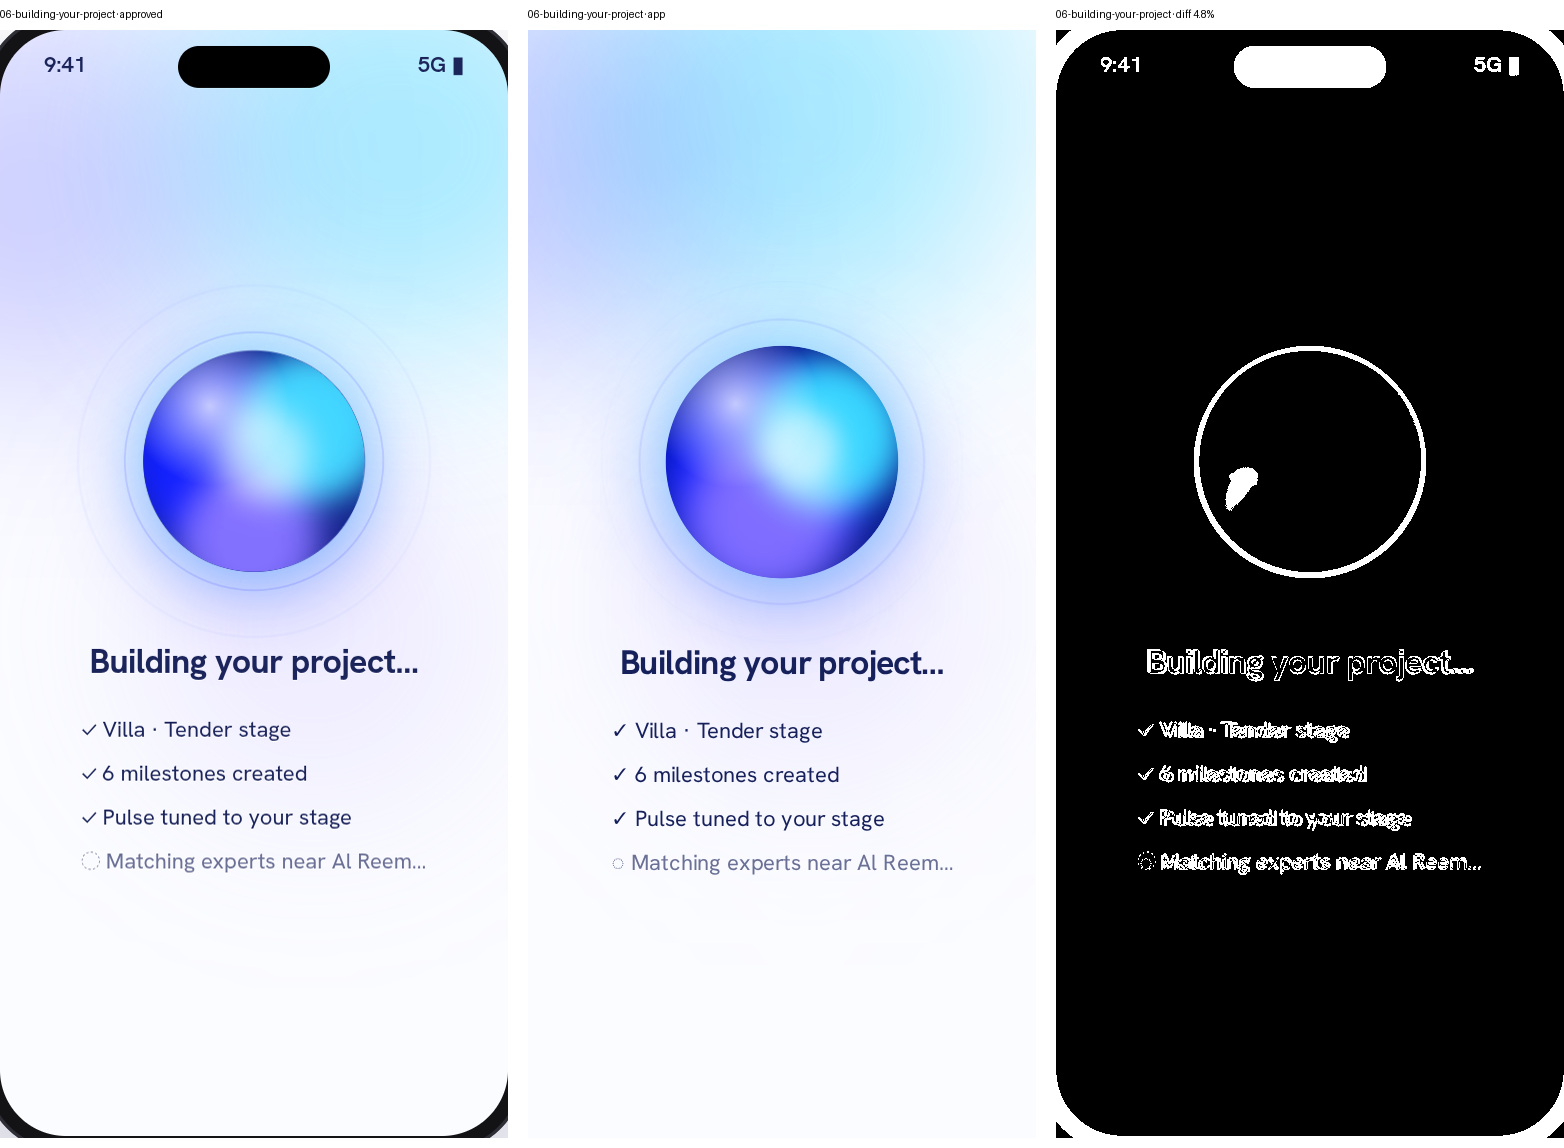
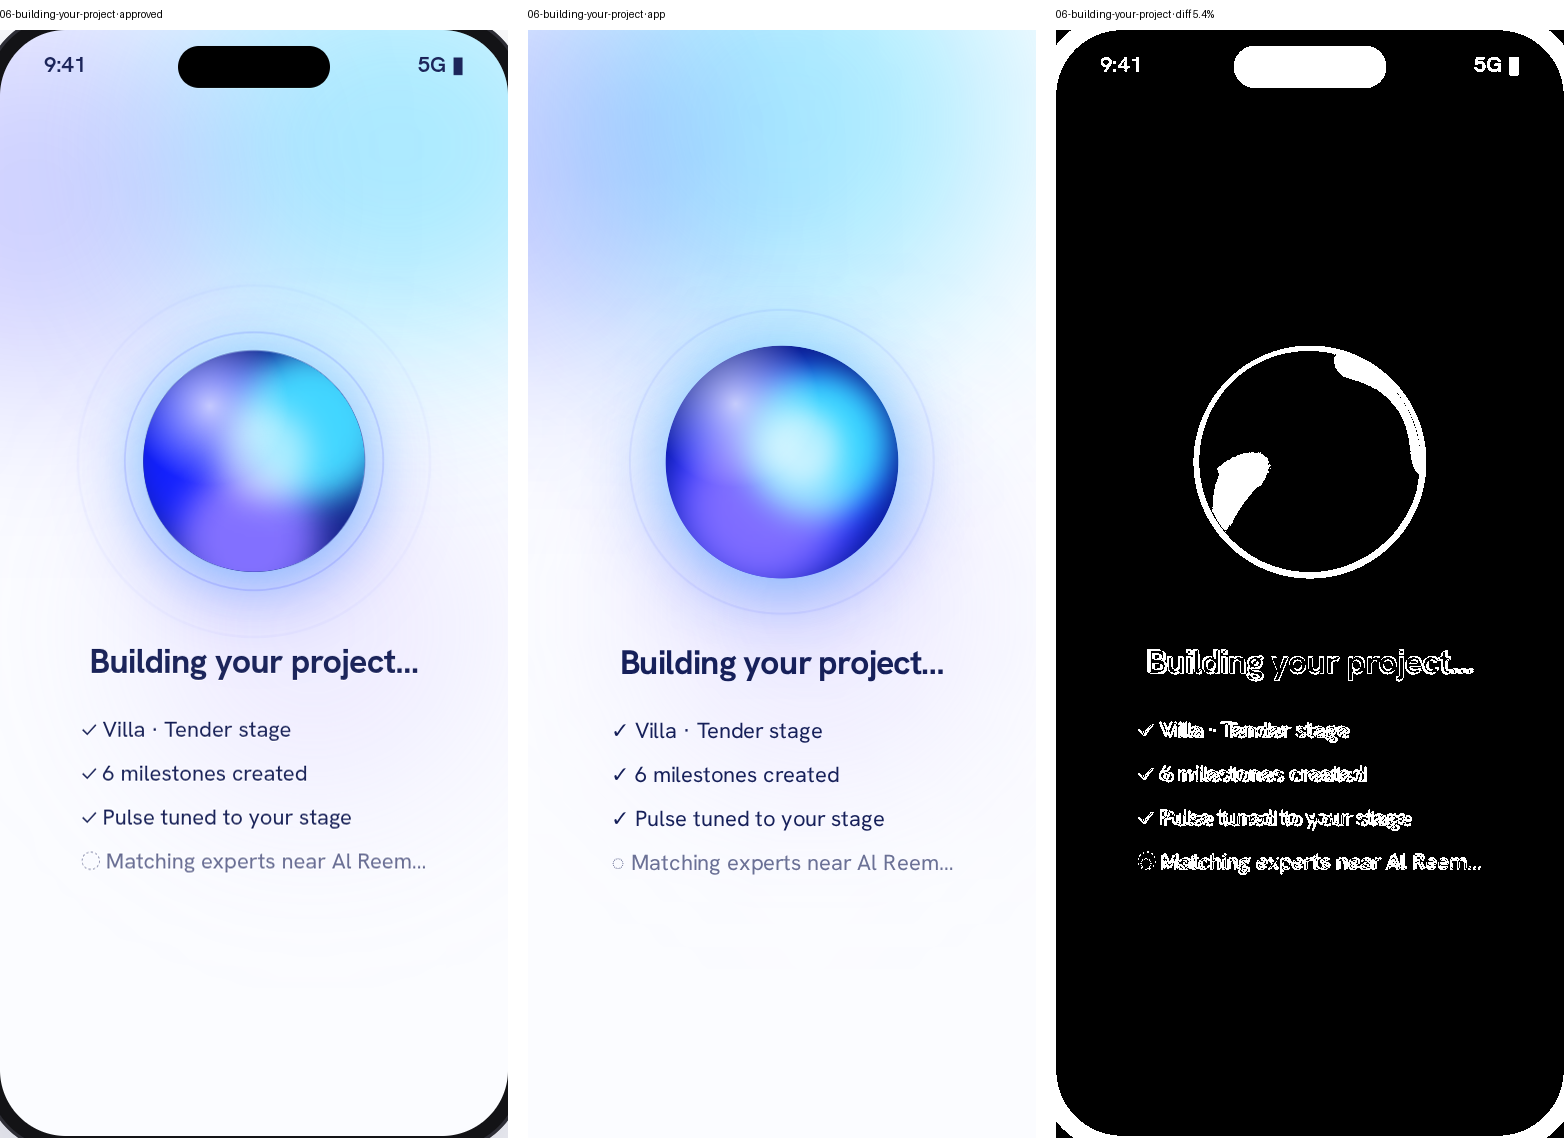
fix(mobile): Orb default fluid blob, variant=sphere for welcome/creating

diff --git a/mobile/src/fx/Orb.tsx b/mobile/src/fx/Orb.tsx
@@ -1,13 +1,58 @@
-import { Canvas, Circle, Group, RadialGradient, Blur, Skia, vec, useClock } from '@shopify/react-native-skia';
+import { Canvas, Circle, Group, Path, RadialGradient, SweepGradient, Blur, Skia, vec, useClock } from '@shopify/react-native-skia';
 import { useDerivedValue, SharedValue } from 'react-native-reanimated';
 import { View, StyleProp, ViewStyle, AccessibilityInfo } from 'react-native';
 import { useEffect, useState } from 'react';
+import { blobPoints } from './geometry';
+import { ORB } from '@/theme/tokens';
 import { s } from '@/theme/scale';
 
 function useReduceMotion() {
   const [r, setR] = useState(false);
   useEffect(() => { AccessibilityInfo.isReduceMotionEnabled().then(setR); }, []);
   return r;
+}
+
+export type OrbProps = { size: number; soft?: boolean; calm?: boolean; ring?: boolean; style?: StyleProp<ViewStyle>; variant?: 'blob' | 'sphere' };
+
+function OrbBlob({ size, soft, calm, ring, style }: OrbProps) {
+  const reduce = useReduceMotion();
+  const clock = useClock();
+  const D = s(size); const pad = D * 0.45; const W = D + pad * 2; const c = W / 2; const r = D / 2;
+  const speed = reduce ? 0 : calm ? 0.28 : 0.55;
+  const path = useDerivedValue(() => {
+    const t = (clock.value / 1000) * speed;
+    const pts = blobPoints(t, r * (ring ? 0.8 : 1), c, c, 48);
+    const p = Skia.Path.Make();
+    const mid = (i: number) => { const a = pts[i]; const b = pts[(i + 1) % pts.length]; return [(a[0] + b[0]) / 2, (a[1] + b[1]) / 2]; };
+    const m0 = mid(pts.length - 1); p.moveTo(m0[0], m0[1]);
+    for (let i = 0; i < pts.length; i++) { const m = mid(i); p.quadTo(pts[i][0], pts[i][1], m[0], m[1]); }
+    p.close();
+    return p;
+  });
+  const rot = useDerivedValue(() => [{ rotate: ((clock.value / 1000) * speed * 1.05) % (Math.PI * 2) }]);
+  const blur = D * (soft ? 0.11 : 0.05);
+  return (
+    <View style={[{ width: D, height: D, alignItems: 'center', justifyContent: 'center' }, style]} pointerEvents="none">
+      <Canvas style={{ position: 'absolute', width: W, height: W, left: -pad, top: -pad, opacity: calm ? 0.8 : 1 }}>
+        <Circle cx={c} cy={c} r={r * 1.35}>
+          <RadialGradient c={vec(c, c)} r={r * 1.35} colors={['rgba(49,209,255,0.35)', 'rgba(0,0,254,0.12)', 'rgba(0,0,254,0)']} positions={[0, 0.45, 1]} />
+          <Blur blur={D * 0.08} />
+        </Circle>
+        <Group origin={vec(c, c)} transform={rot}>
+          <Path path={path} style={ring ? 'stroke' : 'fill'} strokeWidth={r * 0.55}>
+            <SweepGradient c={vec(c, c)} colors={ORB} />
+            <Blur blur={blur} />
+          </Path>
+        </Group>
+        {!ring && (
+          <Circle cx={c} cy={c} r={r * 0.56}>
+            <RadialGradient c={vec(c, c)} r={r * 0.56} colors={['rgba(255,255,255,0.95)', 'rgba(255,255,255,0)']} />
+            <Blur blur={3} />
+          </Circle>
+        )}
+      </Canvas>
+    </View>
+  );
 }
 
 /** Mockup `.orb`: dark core clipped to a circle, four blurred screen-blended blobs drifting on 6/7/5/4s loops, a top-left shine,
@@ -34,7 +79,7 @@ function Blob({ b, clock, D, pad, speed, k }: { b: (typeof BLOBS)[number]; clock
   );
 }
 
-export function Orb({ size, soft, calm, style }: { size: number; soft?: boolean; calm?: boolean; ring?: boolean; style?: StyleProp<ViewStyle> }) {
+function OrbSphere({ size, soft, calm, style }: OrbProps) {
   const reduce = useReduceMotion();
   const clock = useClock();
   const D = s(size); const k = D / size; const pad = D * 0.7; const W = D + pad * 2; const c = W / 2; const r = D / 2;
@@ -59,6 +104,9 @@ export function Orb({ size, soft, calm, style }: { size: number; soft?: boolean;
     </View>
   );
 }
+
+/** `blob` (default): the fluid iridescent morphing blob (motion.html .blob). `sphere`: the glossy sphere (common.html .orb). */
+export function Orb({ variant = 'blob', ...p }: OrbProps) { return variant === 'sphere' ? <OrbSphere {...p} /> : <OrbBlob {...p} />; }
 
 /** Two expanding rings around an orb (mockup .halo): 4s loop, the second offset by 2s. */
 export function Halo({ size }: { size: number }) {

diff --git a/mobile/src/app/onboarding/welcome.tsx b/mobile/src/app/onboarding/welcome.tsx
@@ -26,7 +26,7 @@ export default function Welcome() {
         <Pressable onPress={() => router.push('/onboarding/signup?mode=signin')}><T size={11} w={600} c={C.mute}>Sign in</T></Pressable>
       </View>
       <View style={{ alignItems: 'center', marginTop: s(30), height: s(118) }}>
-        <View><Halo size={118} /><Orb size={118} /></View>
+        <View><Halo size={118} /><Orb size={118} variant="sphere" /></View>
         {chip('Villa · Design stage', { left: 0, top: s(6) })}
         {chip('Geotech Engineer', { right: -s(4), top: s(66) }, true)}
         {chip('Quote in 24h', { left: s(12), bottom: -s(24) })}

diff --git a/mobile/src/app/onboarding/creating.tsx b/mobile/src/app/onboarding/creating.tsx
@@ -23,7 +23,7 @@ export default function Creating() {
   return (
     <Screen bg="pulse" px={16}>
       <View style={{ flex: 1, alignItems: 'center', justifyContent: 'center' }}>
-        <View><Halo size={110} /><Orb size={110} /></View>
+        <View><Halo size={110} /><Orb size={110} variant="sphere" /></View>
         <T size={17} w={700} ls={-0.02} style={{ marginTop: s(34) }}>Building your project…</T>
         <View style={{ marginTop: s(16), gap: s(8), alignItems: 'flex-start' }}>
           {lines.map((l, i) => (
